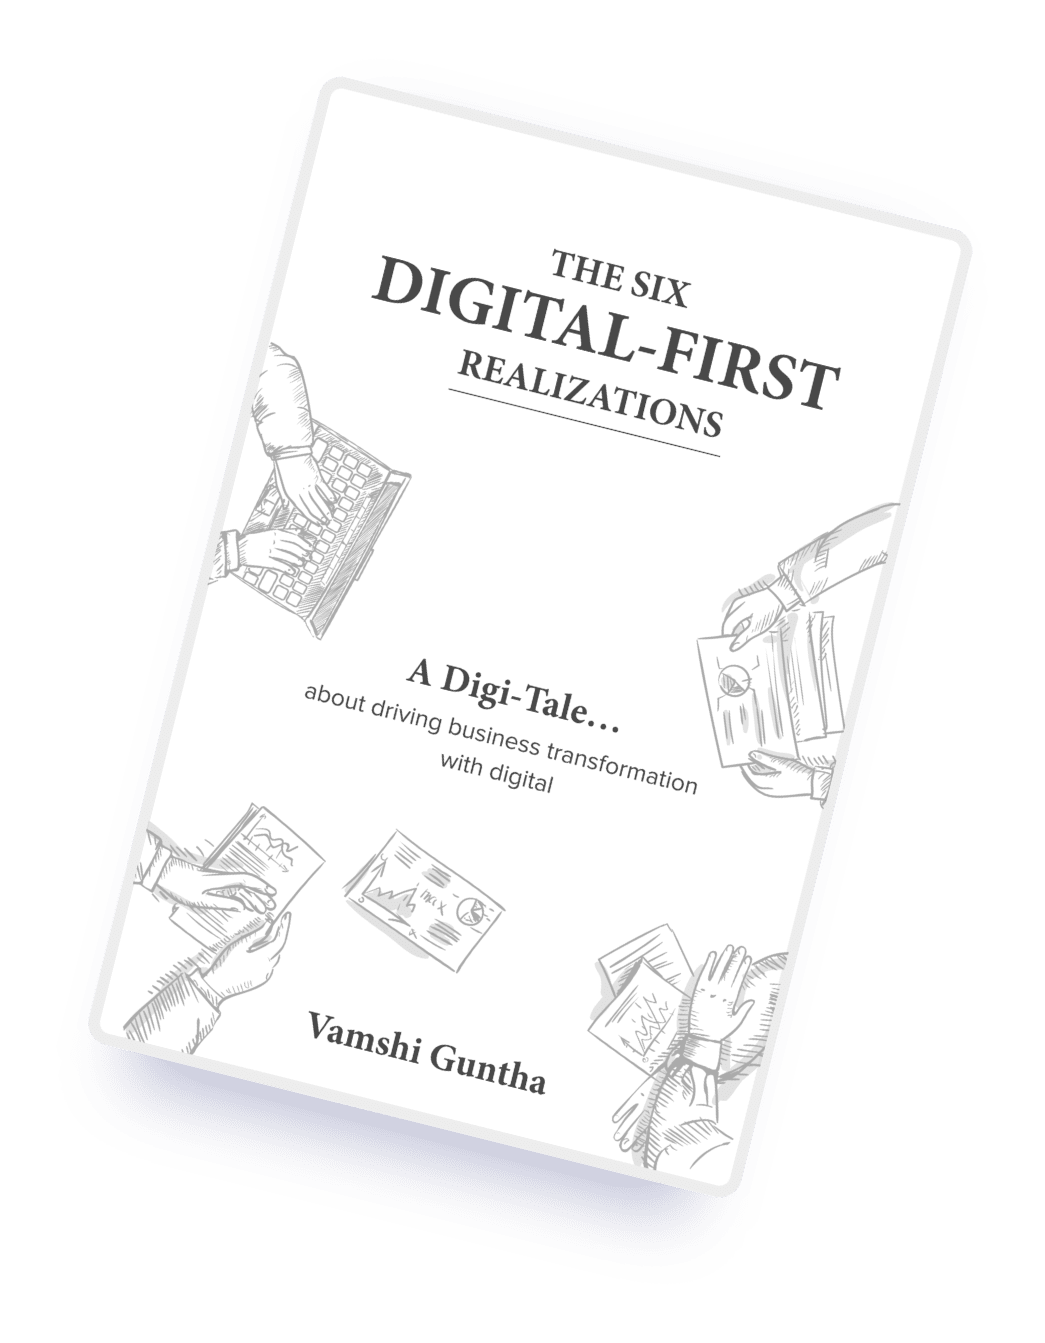
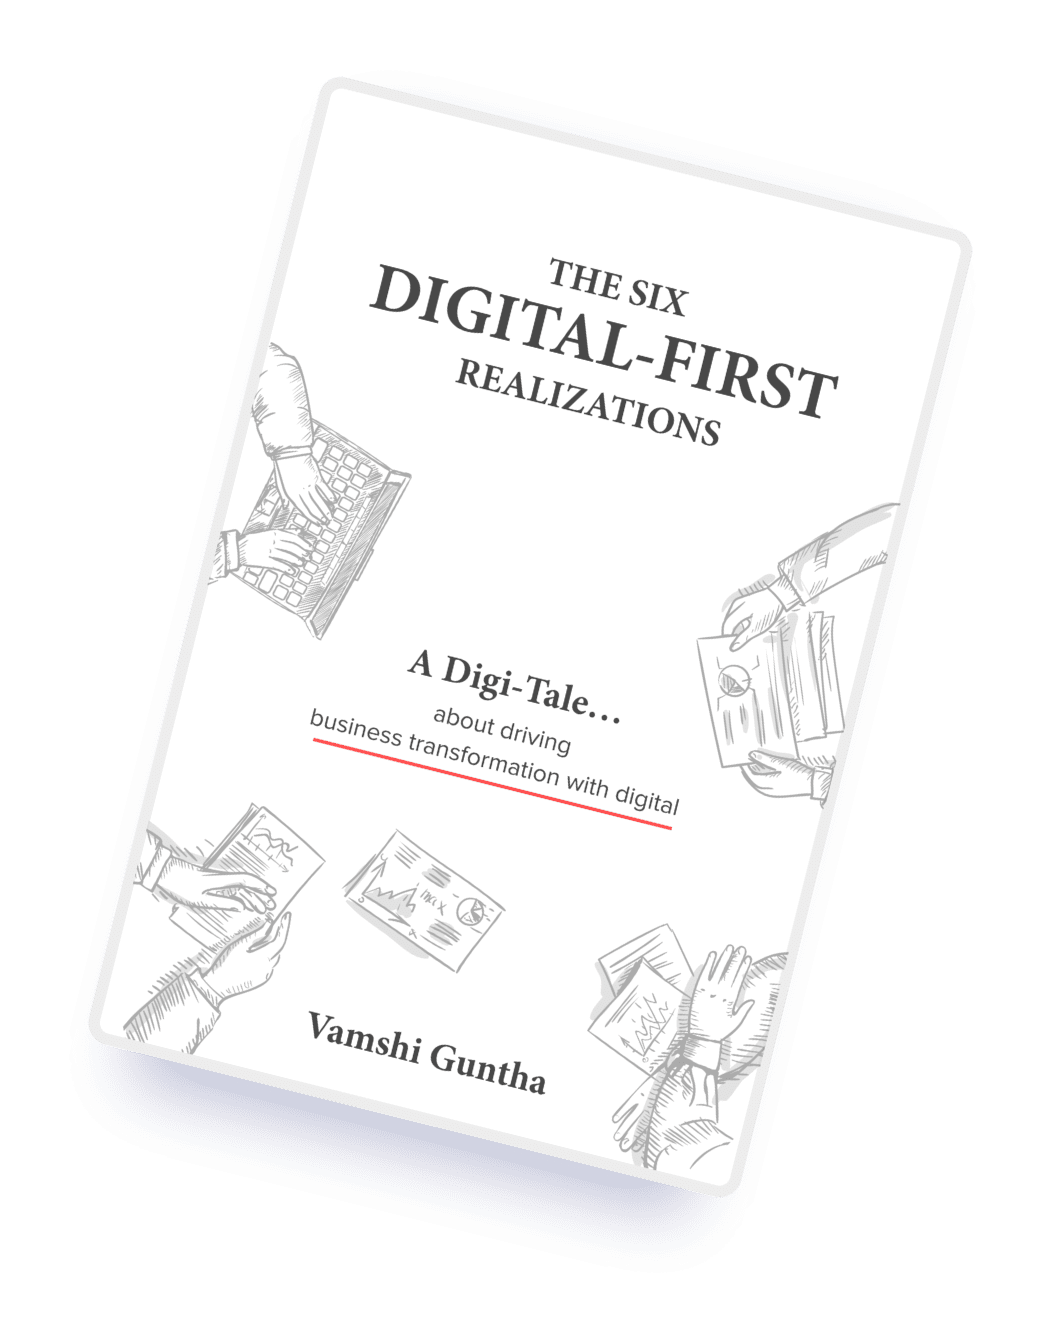
fixes

Changed region(s): [[0.3368, 0.1832, 0.7962, 0.3358], [0.3062, 0.4885, 0.6737, 0.6106]]

diff --git a/book.html b/book.html
@@ -265,13 +265,13 @@
                         </div>
                     </div>
                     <div class="d-flex justify-content-center align-items-center">
-                        <img src="assets/cache/book.png" class="img-fluid" / style="max-width: 90%;">
+                        <img src="assets/cache/Group 1554.svg" class="img-fluid" / style="max-width: 90%;">
                     </div>
                 </div>
                 <div class="flex-container justify-content-center p-0" data-aos="fade-left" data-aos-delay="350">
                     <div class="d-flex h-100 justify-content-center align-items-center" id="book-info">
                         <div class="future-text">
-                            <div class="future-header mt-3">
+                            <div class="future-header mt-5">
                                 <h4>
                                     What is this book about?
                                 </h4>
@@ -294,14 +294,14 @@
                                 <span class="text-book mt-2 d-block">
                                     It is my humble attempt, through this book, to make that
                                     future happen. </span>
-                                <span class="mt-2 d-block text-book">
+                                <span class="mt-3 d-block text-book">
                                     During my experience advising and driving digital
                                     transformations globally, and from countless interactions
                                     with Senior Executives, I have seen and experienced
                                     business challenges firsthand during digital transformations.
                                     As we solved these challenges, I saw six broad themes
                                     emerge aka <b>‘The Six Digital-first Realizations’</b>.</span>
-                                <span class="mt-2 d-block text-book">
+                                <span class="mt-3 d-block text-book">
                                     To explain these Digital-first Realizations and many other
                                     insights, I chose to write a fable. Perhaps the first business
                                     fable in digital transformation.
@@ -359,7 +359,7 @@
                                         <img src="assets/icons/pen.svg" class="img-fluid" />
                                     </div>
                                     <div class="title text-center">
-                                        <h4>Real-life examples</h4>
+                                        <h4>Real-world examples</h4>
                                     </div>
                                     <div class="text text-center">
                                         <p>
@@ -405,13 +405,13 @@
                             <h2 class="text-center">
                                 Early praise
                             </h2>
-                            <p class="content-text" data-aos="fade-down" data-aos-delay="350">Common mentions</p>
+                            <p class="content-text" data-aos="fade-up" data-aos-delay="350">Common mentions</p>
                         </div>
                     </div>
                 </div>
                 <div class="col-md-12 ml-auto mr-auto">
                     <div class="mention-container">
-                        <ul class="list-unstyled" data-aos="fade-down" data-aos-delay="350">
+                        <ul class="list-unstyled" data-aos="fade-up">
                             <li>
                                 <div class="highlight-box">
                                     <p>Page turner</p>
@@ -466,8 +466,7 @@
                                 <div class="testimonial-container">
                                     <h4>
                                         "A well-written book outlining the nuances of digital transformation in the form
-                                        of a fable. The book would be valuable to folks interested in business
-                                        transformation with digital"
+                                        of a fable. The book would be valuable to folks interested in transforming with digital"
                                     </h4>
                                     <div class="testimonial-footer">
                                         <h5>
@@ -530,6 +529,19 @@
                                     <div class="testimonial-footer">
                                         <h5 class="text-center">
                                             <span>Chetan </span>| Director, Startup Advisory at one of the Big 4 firms
+                                        </h5>
+                                    </div>
+                                </div>
+                            </div>
+                            <div class="testimonial-item">
+                                <div class="testimonial-container">
+                                    <h4>
+                                        “A gripping fable for executives and leaders hungry for driving transformation
+                                        through digitization and leading with purpose!.”
+                                    </h4>
+                                    <div class="testimonial-footer">
+                                        <h5 class="text-center">
+                                            <span>Suresh </span> | Executive Director, IT, Seattle Genetics
                                         </h5>
                                     </div>
                                 </div>
@@ -632,7 +644,8 @@
                         <div class="access-text">
                             <p>
                                 Share your email, and you are on the priority list! You will get updates about the book,
-                                early access to frameworks, and posts with deeper insights into <b>"The Six Digital-first
+                                early access to frameworks, and posts with deeper insights into <b>"The Six
+                                    Digital-first
                                     Realizations."</b> Rest assured; we won’t spam your Inbox!
                             </p>
                         </div>
@@ -854,7 +867,7 @@
                                     “The book resonates very well. It’s a creative and engaging way to talk about a
                                     business topic.”
                                 </p>
-                                <span>Tim | Head of Compete, Asana</span> 
+                                <span>Tim | Head of Compete, Asana</span>
                             </div>
                             <img src="assets/cache/book.png" class="img-fluid" />
                         </div>

diff --git a/assets/css/styles.css b/assets/css/styles.css
@@ -3460,7 +3460,6 @@ section:not(:nth-child(1)) .card {
   text-decoration: underline;
   -webkit-text-decoration-color: red;
           text-decoration-color: red;
-  text-decoration-thickness: 3px;
   color: #061134;
   text-underline-offset: 3px;
 }
@@ -3476,7 +3475,6 @@ section:not(:nth-child(1)) .card {
   text-decoration: underline !important;
   -webkit-text-decoration-color: red !important;
           text-decoration-color: red !important;
-  text-decoration-thickness: 3px !important;
   text-underline-offset: 3px !important;
 }
 
@@ -3519,18 +3517,19 @@ section:not(:nth-child(1)) .card {
   -webkit-box-align: center;
       -ms-flex-align: center;
           align-items: center;
+  height: 100px;
 }
 
 #exampleModal1 .contact-us-container .contact-left .author-testimonial p {
   font-family: ProximaNova;
   text-align: center;
   font-weight: 400;
-  font-size: 0.8rem;
+  font-size: 0.7rem;
 }
 
 #exampleModal1 .contact-us-container .contact-left .author-testimonial span {
   color: #ff5050;
-  font-size: 0.85rem;
+  font-size: 0.75rem;
   font-family: ProximaNovaSemiBold;
   display: -webkit-box;
   display: -ms-flexbox;
@@ -3596,6 +3595,7 @@ section:not(:nth-child(1)) .card {
   font-size: .85rem;
   margin-left: 1rem;
   font-family: ProximaNovaSemiBold;
+  margin-bottom: .75rem;
 }
 
 .img-container-book img {

diff --git a/assets/css/book.css b/assets/css/book.css
@@ -38,7 +38,6 @@
   text-decoration: underline;
   -webkit-text-decoration-color: red;
           text-decoration-color: red;
-  text-decoration-thickness: 3px;
   color: #061134;
   text-underline-offset: 3px;
 }
@@ -54,7 +53,6 @@
   text-decoration: underline !important;
   -webkit-text-decoration-color: red !important;
           text-decoration-color: red !important;
-  text-decoration-thickness: 3px !important;
   text-underline-offset: 3px !important;
 }
 
@@ -97,18 +95,19 @@
   -webkit-box-align: center;
       -ms-flex-align: center;
           align-items: center;
+  height: 100px;
 }
 
 #exampleModal1 .contact-us-container .contact-left .author-testimonial p {
   font-family: ProximaNova;
   text-align: center;
   font-weight: 400;
-  font-size: 0.8rem;
+  font-size: 0.7rem;
 }
 
 #exampleModal1 .contact-us-container .contact-left .author-testimonial span {
   color: #ff5050;
-  font-size: 0.85rem;
+  font-size: 0.75rem;
   font-family: ProximaNovaSemiBold;
   display: -webkit-box;
   display: -ms-flexbox;
@@ -174,6 +173,7 @@
   font-size: .85rem;
   margin-left: 1rem;
   font-family: ProximaNovaSemiBold;
+  margin-bottom: .75rem;
 }
 
 .img-container-book img {

diff --git a/assets/css/book.scss b/assets/css/book.scss
@@ -30,7 +30,6 @@
 .underline-link {
   text-decoration: underline;
   text-decoration-color: red;
-  text-decoration-thickness: 3px;
   color: #061134;
   text-underline-offset: 3px;
   &:hover {
@@ -41,7 +40,6 @@
   &:active, &:visited, &:focus {
     text-decoration: underline !important;
     text-decoration-color: red !important;
-    text-decoration-thickness: 3px !important;
     text-underline-offset: 3px !important;
   }
 }
@@ -88,6 +86,7 @@
       display: flex;
       justify-content: center;
       align-items: center;
+      height: 100px;
     }
   }
 }
@@ -97,11 +96,11 @@
       font-family: ProximaNova;
       text-align: center;
       font-weight: 400;
-      font-size: 0.8rem;
+      font-size: 0.7rem;
     }
     span {
       color: #ff5050;
-      font-size: 0.85rem;
+      font-size: 0.75rem;
       font-family: ProximaNovaSemiBold;
       display: flex;
       justify-content: center;
@@ -160,6 +159,7 @@
     font-size: .85rem;
     margin-left: 1rem;
     font-family: ProximaNovaSemiBold;
+    margin-bottom: .75rem;
   }
 }
 
